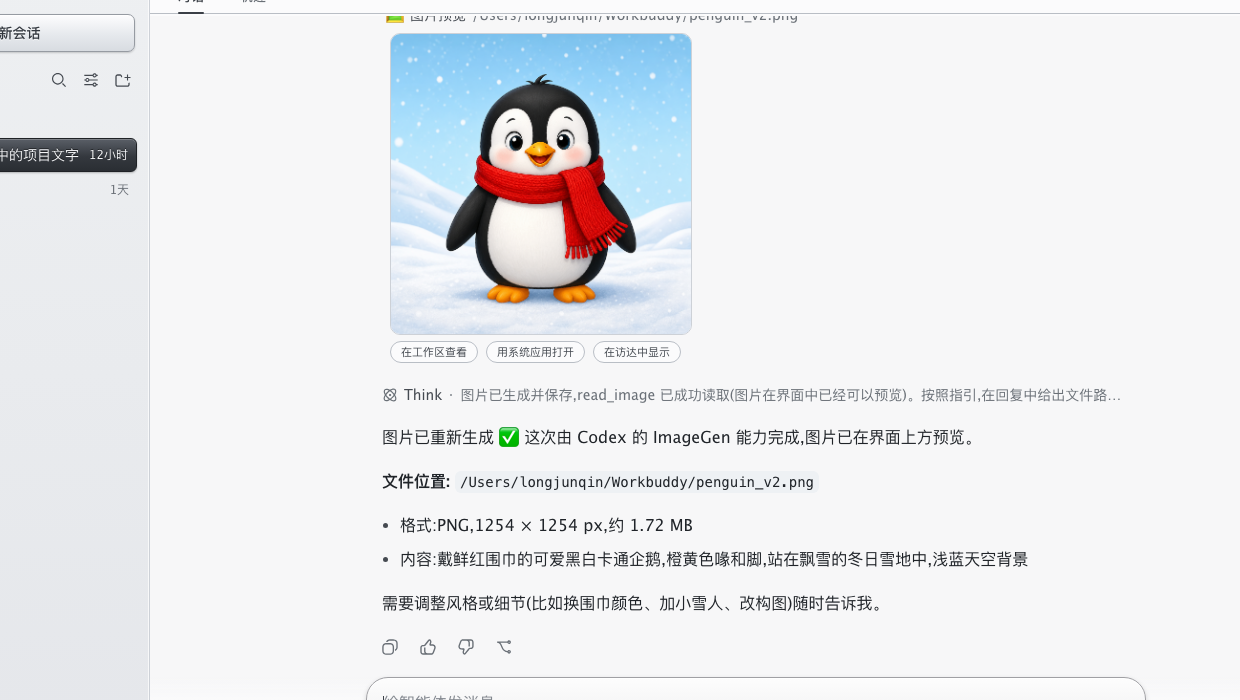
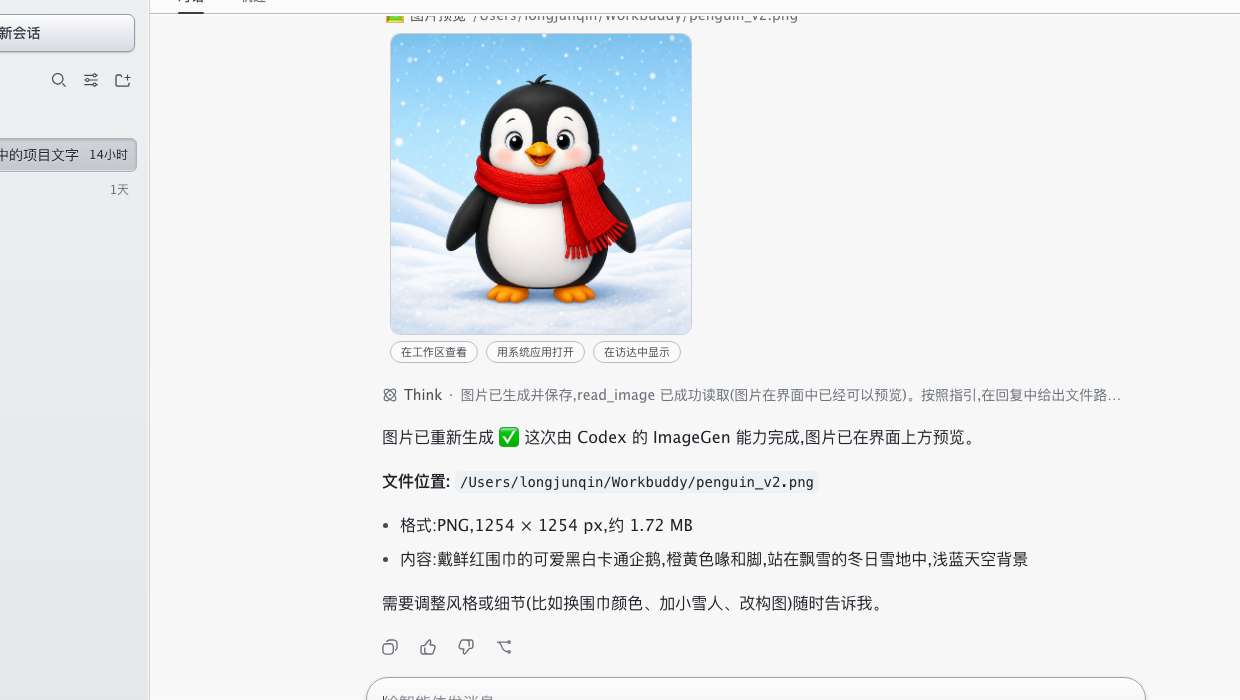
design system rule: raised=actionable, inset=state, dark reserved for the single primary action; selected row light inset; setup never touches existing deps/links

Changed region(s): [[0.0, 0.18, 0.1226, 0.27]]

diff --git a/app/setup.swift b/app/setup.swift
@@ -107,8 +107,10 @@ enum Setup {
     var deps = obj["dependencies"] as? [String: Any] ?? [:]
     var changed = false
     for name in plugins {
-      let spec = "file:" + pluginsDir.appendingPathComponent(name).path
-      if (deps[name] as? String) != spec { deps[name] = spec; changed = true }
+      // 已有任何形式的依赖声明(开发者的 link:、用户自己的版本)一律不动
+      guard deps[name] == nil else { continue }
+      deps[name] = "file:" + pluginsDir.appendingPathComponent(name).path
+      changed = true
     }
     guard changed else { return }
     obj["dependencies"] = deps
@@ -125,11 +127,14 @@ enum Setup {
       let target = pluginsDir.appendingPathComponent(name)
       guard fm.fileExists(atPath: target.path) else { continue }
       let link = nodeModules.appendingPathComponent(name)
-      let current = try? fm.destinationOfSymbolicLink(atPath: link.path)
-      if current != target.path {
-        try? fm.removeItem(at: link)
-        try? fm.createSymbolicLink(atPath: link.path, withDestinationPath: target.path)
+      if let current = try? fm.destinationOfSymbolicLink(atPath: link.path) {
+        // 已有链接:只接管指向本 App 快照目录的;开发者/包管理器建的链接不动
+        if current == target.path || !current.hasPrefix(pluginsDir.path) { continue }
+      } else if fm.fileExists(atPath: link.path) {
+        continue // 实体目录(包管理器安装),不动
       }
+      try? fm.removeItem(at: link)
+      try? fm.createSymbolicLink(atPath: link.path, withDestinationPath: target.path)
     }
   }
 

diff --git a/plugins/dsh-theme-aluminum/lib/client.js b/plugins/dsh-theme-aluminum/lib/client.js
@@ -116,12 +116,12 @@ html, body { background: #f0f0f2 !important; color-scheme: light !important; }
 [class*="_sessionRow"] { border-radius: 6px !important; }
 [class*="_sessionRow"]:hover { background: rgba(30,40,55,.07) !important; }
 [class*="_sessionRow"][class*="_selected"] {
-  background: linear-gradient(#5a5f67, #34383e 55%, #2a2e33) !important;
-  border: 1px solid #1f2226 !important;
-  box-shadow: inset 0 1px 0 rgba(255,255,255,.22), 0 1px 2px rgba(0,0,0,.25) !important;
+  background: linear-gradient(#d0d3d8, #c4c8ce) !important;
+  border: 1px solid #adb1b8 !important;
+  box-shadow: inset 0 1px 3px rgba(30,35,42,.20), inset 0 -1px 0 rgba(255,255,255,.55) !important;
 }
 [class*="_sessionRow"][class*="_selected"] * {
-  color: #f4f5f7 !important; text-shadow: 0 -1px 0 rgba(0,0,0,.5);
+  color: #1e2226 !important; text-shadow: 0 1px 0 rgba(255,255,255,.45);
 }
 /* 会话区 */
 [class*="_scrollBody"] { background: #f7f7f8 !important; }
